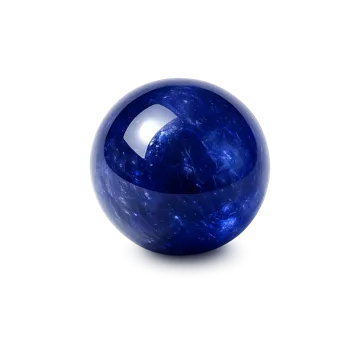
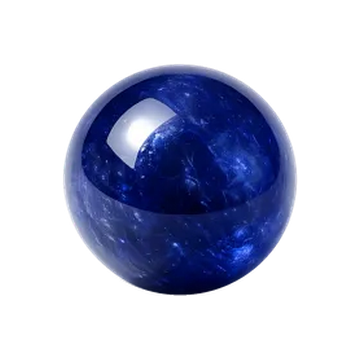
Normalize Scripture Prayer Bead assets

Changed region(s): [[0.1528, 0.1528, 0.825, 0.825]]

diff --git a/src/components/PrayerPathPlayer.tsx b/src/components/PrayerPathPlayer.tsx
@@ -113,14 +113,16 @@ export default function PrayerPathPlayer({ path, onClose }: { path: PrayerPath; 
             <div style={{ display: 'flex', justifyContent: 'center', marginBottom: 14 }}>
               <div style={{ textAlign: 'center' }}>
                 <div style={{
-                  width: isPhone ? 168 : 132, height: isPhone ? 168 : 132, borderRadius: '50%', overflow: 'hidden',
+                  width: isPhone ? 168 : 132, height: isPhone ? 168 : 132, borderRadius: 18, overflow: 'hidden',
                   background: 'var(--card-inner)', border: '1px solid var(--border)',
-                  boxShadow: '0 6px 16px rgba(15, 23, 42, 0.14)',
                 }}>
                   <img
                     src={STONE_IMAGES[step.imageKey]}
                     alt={STONE_LABELS[step.imageKey]}
-                    style={{ width: '100%', height: '100%', objectFit: 'cover' }}
+                    style={{
+                      width: '100%', height: '100%', objectFit: 'contain', boxSizing: 'border-box', padding: 6,
+                      filter: 'drop-shadow(0 5px 5px rgba(15, 23, 42, 0.22))',
+                    }}
                   />
                 </div>
                 <div style={{ fontSize: 10, fontWeight: 600, color: 'var(--text-muted)', textTransform: 'uppercase', letterSpacing: '0.05em', marginTop: 6 }}>

diff --git a/scripts/verify_stone_assets.py b/scripts/verify_stone_assets.py
@@ -1,0 +1,78 @@
+#!/usr/bin/env python3
+"""Verify the visual contract for Chronicle's prayer-bead assets."""
+
+from pathlib import Path
+import sys
+
+try:
+    from PIL import Image
+except ImportError:
+    print("Pillow is required: python3 -m pip install Pillow", file=sys.stderr)
+    raise SystemExit(2)
+
+
+ASSET_DIR = Path(__file__).resolve().parents[1] / "src" / "assets" / "stones"
+EXPECTED = {
+    "agate.webp", "amethyst.webp", "beryl.webp", "carbuncle.webp",
+    "centerpiece.webp", "diamond.webp", "emerald.webp", "gold.webp",
+    "jasper.webp", "large-cross.webp", "onyx.webp", "ruby.webp",
+    "sapphire.webp", "silver-cross.webp", "topaz.webp",
+}
+ROUND_BEADS = EXPECTED - {"centerpiece.webp", "large-cross.webp", "silver-cross.webp"}
+
+
+def fail(message: str, failures: list[str]) -> None:
+    failures.append(message)
+
+
+def main() -> int:
+    failures: list[str] = []
+    actual = {path.name for path in ASSET_DIR.glob("*.webp")}
+
+    for missing in sorted(EXPECTED - actual):
+        fail(f"missing asset: {missing}", failures)
+    for unexpected in sorted(actual - EXPECTED):
+        fail(f"unexpected asset: {unexpected}", failures)
+
+    for name in sorted(EXPECTED & actual):
+        path = ASSET_DIR / name
+        with Image.open(path) as image:
+            if image.size != (360, 360):
+                fail(f"{name}: expected 360x360 canvas, found {image.size}", failures)
+            if "A" not in image.getbands():
+                fail(f"{name}: missing alpha channel", failures)
+                continue
+
+            alpha = image.getchannel("A")
+            corners = [alpha.getpixel(point) for point in ((0, 0), (359, 0), (0, 359), (359, 359))]
+            if any(corners):
+                fail(f"{name}: canvas corners must be fully transparent", failures)
+
+            bbox = alpha.getbbox()
+            if bbox is None:
+                fail(f"{name}: subject is fully transparent", failures)
+                continue
+
+            left, top, right, bottom = bbox
+            if left < 35 or top < 35 or right > 325 or bottom > 325:
+                fail(f"{name}: subject lacks the required transparent padding: {bbox}", failures)
+
+            if name in ROUND_BEADS:
+                width, height = right - left, bottom - top
+                if not (225 <= width <= 240 and 220 <= height <= 240):
+                    fail(f"{name}: round bead is not normalized to the shared scale: {bbox}", failures)
+                if bottom > 300:
+                    fail(f"{name}: pixels below the bead suggest a baked floor reflection: {bbox}", failures)
+
+    if failures:
+        print("Stone asset verification failed:", file=sys.stderr)
+        for failure in failures:
+            print(f"- {failure}", file=sys.stderr)
+        return 1
+
+    print(f"Verified {len(EXPECTED)} stone assets: alpha, padding, scale, and reflection bounds pass.")
+    return 0
+
+
+if __name__ == "__main__":
+    raise SystemExit(main())

diff --git a/docs/stone-asset-spec.md b/docs/stone-asset-spec.md
@@ -1,0 +1,18 @@
+# Scripture Prayer Beads Asset Standard
+
+The prayer player uses one coherent visual system for all stones and hardware.
+
+## Source asset contract
+
+- 360 x 360 lossless WebP with a real alpha channel.
+- Fully transparent canvas corners and at least 35 pixels of transparent padding.
+- Stone spheres are centered at a consistent 225-240 pixel diameter.
+- No checkerboard, white matte, floor plane, cast shadow, contact shadow, or reflected duplicate is baked into the file.
+- The original material, internal texture, highlight direction, and hardware detail remain part of the asset.
+- Crosses and the centerpiece retain their natural proportions; they are not forced into a circular crop.
+
+## Rendering contract
+
+The prayer player uses `object-fit: contain` and supplies the shared drop shadow in CSS. This keeps lighting treatment consistent and lets the same asset work on every Chronicle theme.
+
+Run `npm run qa:stones` after adding or replacing an asset. The check rejects missing alpha, opaque corners, inconsistent canvas padding, irregular bead scale, and pixels beneath the allowed bead bounds.
